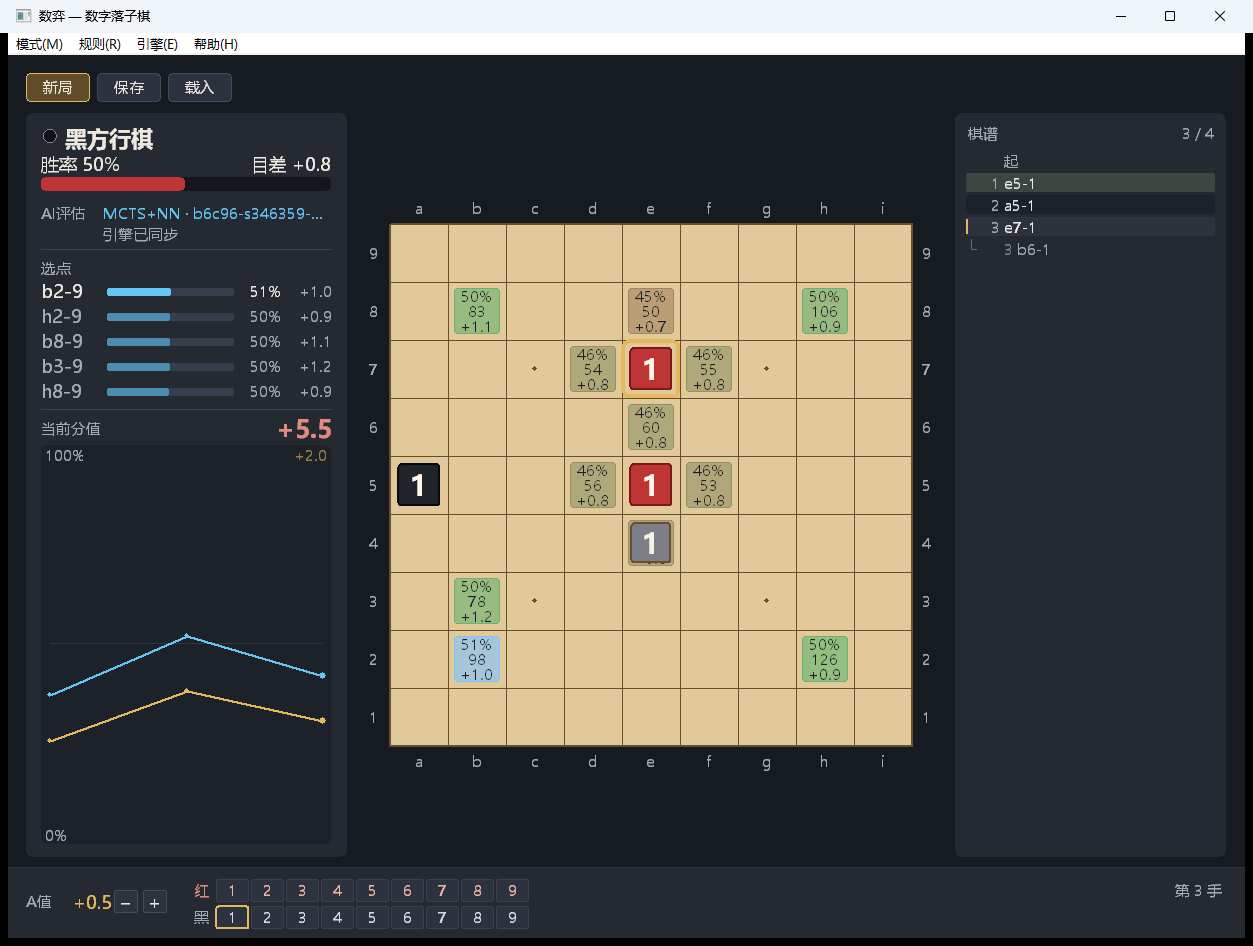
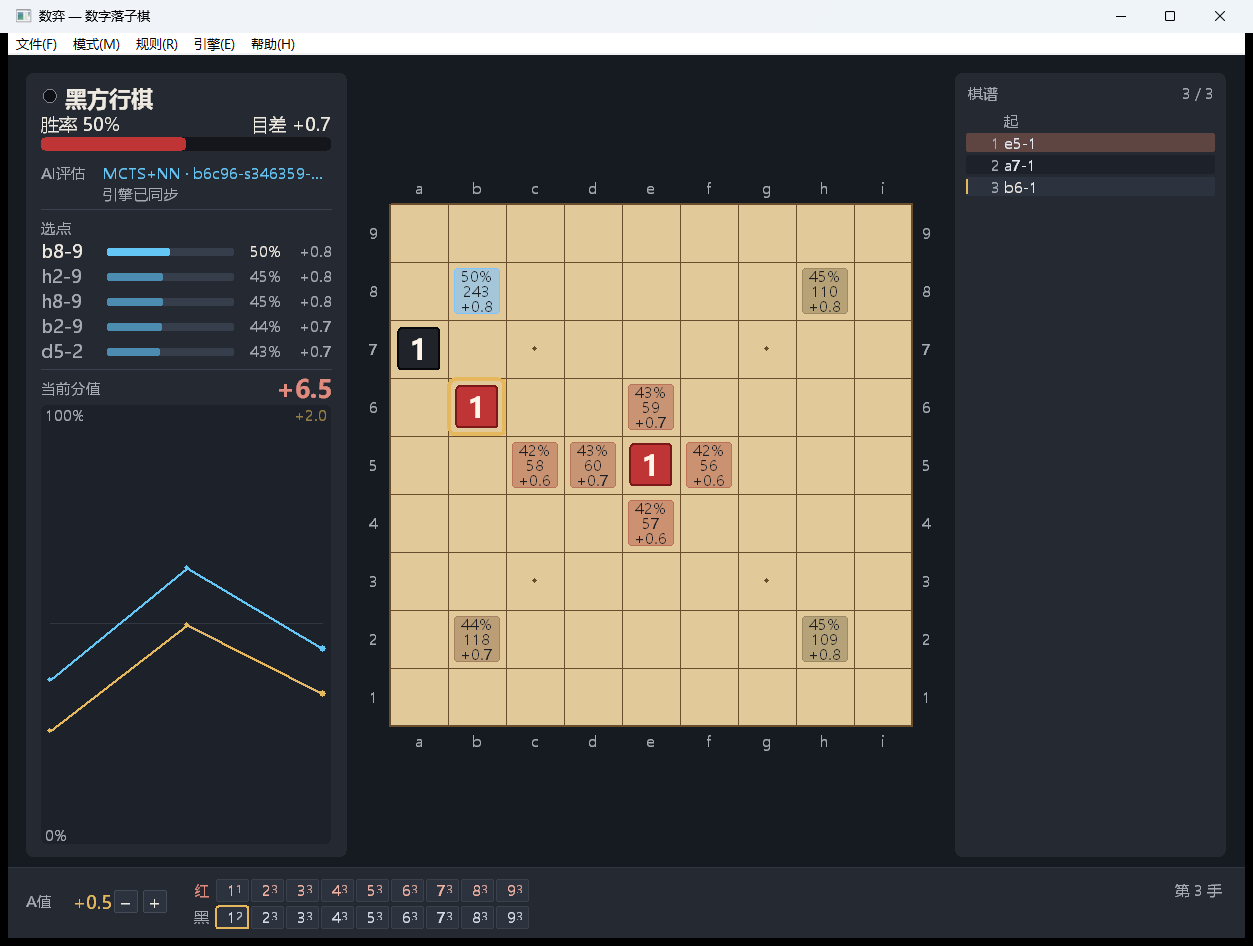
ui: file actions in a 文件 menu, and the piece count on each chip
Two things that were taking space on the board without earning it.

New game, save and load were three buttons floating above the analysis
panel -- on the board, which is the one place the eye should be.  They are
a 文件 menu now (新局 / 保存棋谱… / 载入棋谱… / 退出), so the panel starts at
the top edge and the window has one row of chrome instead of two.  The
left panel also gains the 26 px the button row used.

The bottom bar showed a chip per number with no count: a dimmed chip meant
"none left" and everything else looked identical, so "one left" and "three
left" were the same picture -- the worst possible ambiguity in a game whose
whole resource is how many of each number remain.  Each chip now carries
the count as a superscript (9³), drawn as a separate small glyph rather
than a Unicode superscript character so no font has to have ⁰¹²³.

diff --git a/ui/src/ui_win32.cpp b/ui/src/ui_win32.cpp
@@ -2,7 +2,7 @@
 //
 // The window is one board and three pieces of chrome:
 //
-//   top-left     new game, save, load — the actions a game needs;
+//   menu         文件 / 模式 / 规则 / 引擎 / 帮助 — everything that is not a move;
 //   left         what the analysis produced: the verdict, the move list, the
 //                score, and the curves of the line on screen;
 //   right        the record tree: every move ever played from this game, with a
@@ -47,6 +47,7 @@ namespace {
 constexpr int ID_NEW_GAME = 1001;
 constexpr int ID_SAVE_RECORD = 1002;
 constexpr int ID_LOAD_RECORD = 1003;
+constexpr int ID_EXIT = 1004;
 
 constexpr int ID_MODE_PVP = 2001;
 constexpr int ID_MODE_HUMAN_RED = 2002;
@@ -157,6 +158,7 @@ HFONT g_fontPiece = nullptr;
 HFONT g_fontUi = nullptr;
 HFONT g_fontSmall = nullptr;
 HFONT g_fontCoord = nullptr;
+HFONT g_fontTiny = nullptr;  // the superscript piece count
 
 const COLORREF kBackground = RGB(22, 26, 33);
 const COLORREF kPanel = RGB(36, 41, 50);
@@ -1476,7 +1478,6 @@ void syncEngineChecks() {
 // ---------------------------------------------------------------------------
 struct Layout {
     RECT client{};
-    RECT actions{};  // new / save / load, top left
     RECT left{};     // the analysis panel
     RECT board{};
     RECT right{};  // the record tree
@@ -1494,8 +1495,7 @@ Layout computeLayout(HWND hwnd) {
     const int barHeight = scale(64);
     const int coord = scale(24);
 
-    result.actions = {margin, margin, margin + leftWidth, margin + scale(26)};
-    result.left = {margin, result.actions.bottom + scale(10), margin + leftWidth,
+    result.left = {margin, margin, margin + leftWidth,
                    result.client.bottom - barHeight - scale(8)};
     result.bottom = {0, result.client.bottom - barHeight, result.client.right, result.client.bottom};
     result.right = {result.client.right - margin - rightWidth, result.left.top,
@@ -1515,9 +1515,6 @@ Layout computeLayout(HWND hwnd) {
 }
 
 struct Chrome {
-    RECT newGame{};
-    RECT save{};
-    RECT load{};
     RECT aMinus{};
     RECT aPlus{};
     RECT chips[2][9];  // [red, black][1..9]
@@ -1525,17 +1522,6 @@ struct Chrome {
 
 Chrome computeChrome(const Layout& layout) {
     Chrome chrome;
-    const int buttonWidth = scale(58);
-    const int buttonGap = scale(6);
-    int x = layout.actions.left;
-    const int top = layout.actions.top;
-    const int height = layout.actions.bottom - layout.actions.top;
-    chrome.newGame = {x, top, x + buttonWidth, top + height};
-    x += buttonWidth + buttonGap;
-    chrome.save = {x, top, x + buttonWidth, top + height};
-    x += buttonWidth + buttonGap;
-    chrome.load = {x, top, x + buttonWidth, top + height};
-
     // Bottom bar: A value on the left, then the two rows of pieces.
     const int barTop = layout.bottom.top;
     const int aRow = barTop + scale(21);
@@ -2169,28 +2155,31 @@ void drawBottomBar(HDC dc, const Layout& layout, const Chrome& chrome) {
             const bool selected = active && n == g_selected;
             roundRect(dc, chip, scale(4), remain > 0 ? kPanelSoft : kPanelDeep,
                       selected ? kGold : RGB(58, 64, 76), selected ? 2 : 1);
-            drawTextAt(dc, std::to_wstring(n), chip.left, chip.top, chip.right - chip.left,
-                       chip.bottom - chip.top, g_fontSmall,
-                       remain > 0 ? (side == 0 ? RGB(240, 179, 163) : RGB(215, 220, 230))
-                                  : RGB(94, 99, 109));
+            // The number, then how many of it are left as a superscript: "9³" means
+            // three nines still in hand.  Without the count the only signal was a
+            // dimmed chip, which reads as "used" but not as "one left".
+            const COLORREF numberColour = remain > 0
+                                              ? (side == 0 ? RGB(240, 179, 163) : RGB(215, 220, 230))
+                                              : RGB(94, 99, 109);
+            const int chipWidth = chip.right - chip.left;
+            const int chipHeight = chip.bottom - chip.top;
+            // Draw the digit and its count as one group ("9³"), not as two columns:
+            // the digit right-aligned to 58% of the chip, the count left-aligned
+            // right after it and raised, which is what a superscript is.
+            const int digitRight = chip.left + (chipWidth * 62) / 100;
+            drawTextAt(dc, std::to_wstring(n), chip.left, chip.top, digitRight - chip.left,
+                       chipHeight, g_fontSmall, numberColour,
+                       DT_RIGHT | DT_VCENTER | DT_SINGLELINE);
+            drawTextAt(dc, std::to_wstring(remain), digitRight, chip.top + scale(2),
+                       scale(12), scale(11), g_fontTiny,
+                       remain > 0 ? mixColor(numberColour, kPanelSoft, 0.15) : RGB(94, 99, 109),
+                       DT_LEFT | DT_TOP | DT_SINGLELINE);
         }
     }
 
     const std::wstring ply = L"第 " + std::to_wstring(g_position.ply()) + L" 手";
     drawTextAt(dc, ply, layout.bottom.right - scale(120), barTop + scale(11), scale(100), scale(20),
                g_fontSmall, kMuted, DT_RIGHT | DT_VCENTER | DT_SINGLELINE);
-}
-
-void drawActions(HDC dc, const Chrome& chrome) {
-    const auto button = [&](const RECT& rect, const wchar_t* text, bool primary) {
-        roundRect(dc, rect, scale(6), primary ? RGB(98, 77, 42) : kPanelSoft,
-                  primary ? kGold : RGB(68, 75, 88));
-        drawTextAt(dc, text, rect.left, rect.top, rect.right - rect.left, rect.bottom - rect.top,
-                   g_fontSmall, kText);
-    };
-    button(chrome.newGame, L"新局", true);
-    button(chrome.save, L"保存", false);
-    button(chrome.load, L"载入", false);
 }
 
 void drawOverlay(HDC dc, const Layout& layout) {
@@ -2226,7 +2215,6 @@ void paintAll(HDC dc, const RECT& client) {
     drawLeftPanel(dc, layout, rankedCells);
     drawRecordTree(dc, layout);
     drawBottomBar(dc, layout, chrome);
-    drawActions(dc, chrome);
     drawOverlay(dc, layout);
 }
 
@@ -2337,18 +2325,6 @@ void handleClick(POINT point) {
     Layout layout = computeLayout(g_hwnd);
     Chrome chrome = computeChrome(layout);
 
-    if (contains(chrome.newGame, point)) {
-        resetGame();
-        return;
-    }
-    if (contains(chrome.save, point)) {
-        SendMessageW(g_hwnd, WM_COMMAND, ID_SAVE_RECORD, 0);
-        return;
-    }
-    if (contains(chrome.load, point)) {
-        SendMessageW(g_hwnd, WM_COMMAND, ID_LOAD_RECORD, 0);
-        return;
-    }
     if (contains(chrome.aMinus, point)) {
         setAValue(g_aValue - kAValueStep);
         return;
@@ -2538,9 +2514,11 @@ void showGuide() {
     text += L"· 空格：开始 / 暂停分析；分析到上限后再按一次会继续，不再限量。\n";
     text += L"· ↑ / ↓：在棋谱里上一步 / 下一步（↓ 走主干）。\n";
     text += L"· Delete：删除当前着法及其后续，连同它们的分析。\n";
-    text += L"· 左侧面板是分析的产物，右侧是一棵棋谱树：每一着都在树上，换个走法会开新枝，"
-            L"回到旧枝时原来的分析还在。\n";
-    text += L"· 左下角 A值 可以按 ± 调整（也可在 引擎 → 设置 里改）。\n\n";
+    text += L"· 左侧面板是分析的产物，右侧是棋谱：每一着一行，换个走法会在那一手后面缩进出一段"
+            L"变着，回到旧行时原来的分析还在。\n";
+    text += L"· 下方每一步棋子右上角的小数字是这种数字还剩几颗（9³ = 还有三颗 9）。\n";
+    text += L"· 左下角 A值 可以按 ± 调整（也可在 引擎 → 设置 里改）。\n";
+    text += L"· 新局、保存棋谱、载入棋谱在 文件 菜单里。\n\n";
     text += L"项目主页（规则、引擎、模型的发布都在这里）：\n";
     text += kProjectUrl;
     MessageBoxW(g_hwnd, text.c_str(), L"使用指南", MB_OK | MB_ICONINFORMATION);
@@ -2579,11 +2557,12 @@ void createFonts() {
     g_fontUi = makeFont(12, false);
     g_fontSmall = makeFont(10, false);
     g_fontCoord = makeFont(10, false);
+    g_fontTiny = makeFont(8, false);
 }
 
 void destroyFonts() {
     for (HFONT* font : {&g_fontTitle, &g_fontSubtitle, &g_fontTurn, &g_fontBig, &g_fontPiece,
-                        &g_fontUi, &g_fontSmall, &g_fontCoord}) {
+                        &g_fontUi, &g_fontSmall, &g_fontCoord, &g_fontTiny}) {
         if (*font) DeleteObject(*font);
         *font = nullptr;
     }
@@ -2591,11 +2570,19 @@ void destroyFonts() {
 
 void createMenuBar(HWND hwnd) {
     HMENU menu = CreateMenu();
+    HMENU file = CreatePopupMenu();
     HMENU mode = CreatePopupMenu();
     HMENU engine = CreatePopupMenu();
     HMENU rulesetMenu = CreatePopupMenu();
     HMENU help = CreatePopupMenu();
     HMENU model = CreatePopupMenu();
+
+    AppendMenuW(file, MF_STRING, ID_NEW_GAME, L"新局");
+    AppendMenuW(file, MF_SEPARATOR, 0, nullptr);
+    AppendMenuW(file, MF_STRING, ID_SAVE_RECORD, L"保存棋谱…");
+    AppendMenuW(file, MF_STRING, ID_LOAD_RECORD, L"载入棋谱…");
+    AppendMenuW(file, MF_SEPARATOR, 0, nullptr);
+    AppendMenuW(file, MF_STRING, ID_EXIT, L"退出");
 
     AppendMenuW(rulesetMenu, MF_STRING, ID_RULESET_NOPASS,
                 L"无过手（阻挡规则；一方无子可落立刻终局）");
@@ -2625,6 +2612,7 @@ void createMenuBar(HWND hwnd) {
     AppendMenuW(help, MF_SEPARATOR, 0, nullptr);
     AppendMenuW(help, MF_STRING, ID_ABOUT, L"关于数弈");
 
+    AppendMenuW(menu, MF_POPUP, reinterpret_cast<UINT_PTR>(file), L"文件(&F)");
     AppendMenuW(menu, MF_POPUP, reinterpret_cast<UINT_PTR>(mode), L"模式(&M)");
     AppendMenuW(menu, MF_POPUP, reinterpret_cast<UINT_PTR>(rulesetMenu), L"规则(&R)");
     AppendMenuW(menu, MF_POPUP, reinterpret_cast<UINT_PTR>(engine), L"引擎(&E)");
@@ -2790,6 +2778,7 @@ LRESULT CALLBACK windowProc(HWND hwnd, UINT message, WPARAM wParam, LPARAM lPara
         }
         switch (LOWORD(wParam)) {
         case ID_NEW_GAME: resetGame(); return 0;
+        case ID_EXIT: DestroyWindow(hwnd); return 0;
         case ID_SAVE_RECORD: saveRecordToFile(); return 0;
         case ID_LOAD_RECORD: loadRecordFromFile(); return 0;
         case ID_MODE_PVP: setMode(Mode::Pvp); return 0;

diff --git a/ui/README.md b/ui/README.md
@@ -24,7 +24,7 @@ tests/a_value_smoke.py     驱动窗口检查设置与 A值（ctest: shuyi_ui_a_
 ## 窗口布局
 
 ```
-        新局 保存 载入                    ← 左上角：一局棋需要的动作
+ 文件  模式  规则  引擎  帮助              ← 菜单栏：所有非落子的动作
 ┌──────────────┬────────────────┬──────────────┐
 │ 行棋方        │                │ 棋谱          │
 │ 胜率 / 目差   │      棋盘       │  起          │
@@ -34,7 +34,8 @@ tests/a_value_smoke.py     驱动窗口检查设置与 A值（ctest: shuyi_ui_a_
 │ 当前分值      │                │ 3 e6-4       │
 │ 走势折线      │                │ 4 h6-5       │
 └──────────────┴────────────────┴──────────────┘
-  A值 −/+  红 1..9 / 黑 1..9                    第 N 手
+  A值 −/+  红 1¹2³3³… / 黑 1²2³3³…              第 N 手
+            ↑ 右上角小数字：这种数字还剩几颗
 ```
 
 * **左侧是分析的产物**：行棋方、最优线路的胜率与目差、双方胜率横条、AI 评估
@@ -44,7 +45,9 @@ tests/a_value_smoke.py     驱动窗口检查设置与 A值（ctest: shuyi_ui_a_
   后面缩进出一段变着，读完变着再回到主干。不按深度分列，是因为 54 手就是 54 列，而这块面板只有
   246 px 宽。行色是“这一手比上一步预测的好了多少”，与棋盘标记同一套红/绿映射；当前那一行左侧
   有一条金边。点击任何一行就回到那个局面，原来的分析还在。
-* **下方只有 A值和剩余棋子**，都缩小成一条；键盘说明在 帮助 → 使用指南。
+* **下方只有 A值和剩余棋子**，都缩小成一条；每格棋子右上角的小数字是这种数字还剩几颗
+  （`9³` = 还有三颗 9，`9⁰` 已用完，格子同时变暗）—— 以前只有“变暗/不变暗”两种状态，
+  看不出还剩一颗还是三颗。键盘说明在 帮助 → 使用指南。
 
 ## 操作
 
@@ -52,7 +55,7 @@ tests/a_value_smoke.py     驱动窗口检查设置与 A值（ctest: shuyi_ui_a_
 * 空格：开始 / 暂停分析；达到访问上限后再按一次继续，不再限量。
 * ↑ / ↓：在棋谱里上一步 / 下一步（↓ 走主干）。
 * Delete：删除当前着法及其后续，连同它们的分析缓存。
-* 没有别的快捷键：新局、保存、载入是左上角的按钮，规则与设置都在菜单里。
+* 没有别的快捷键：新局 / 保存棋谱 / 载入棋谱 / 退出在 **文件** 菜单里，规则与设置各在自己的菜单里。
 
 ## 构建（不需要引擎源码）
 
